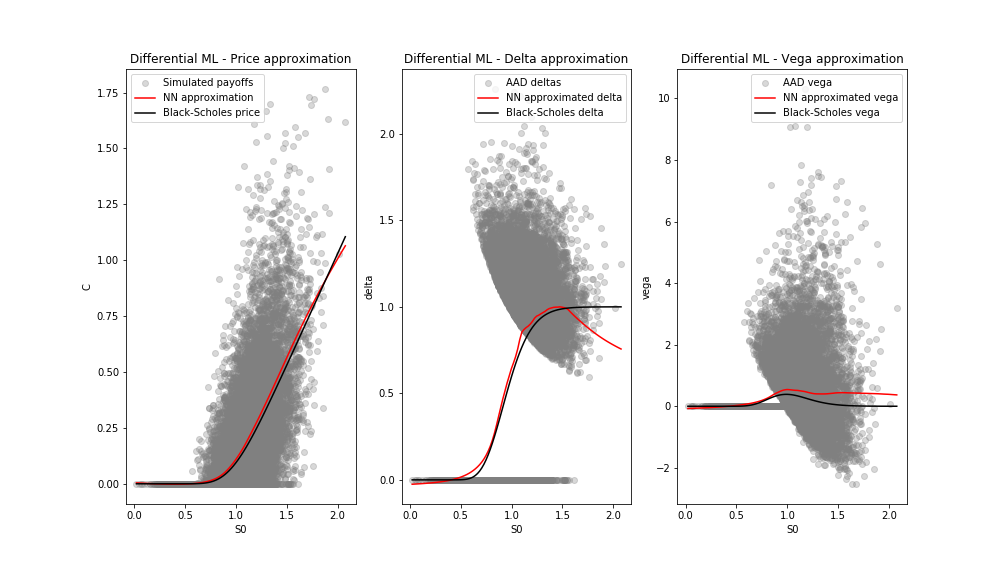
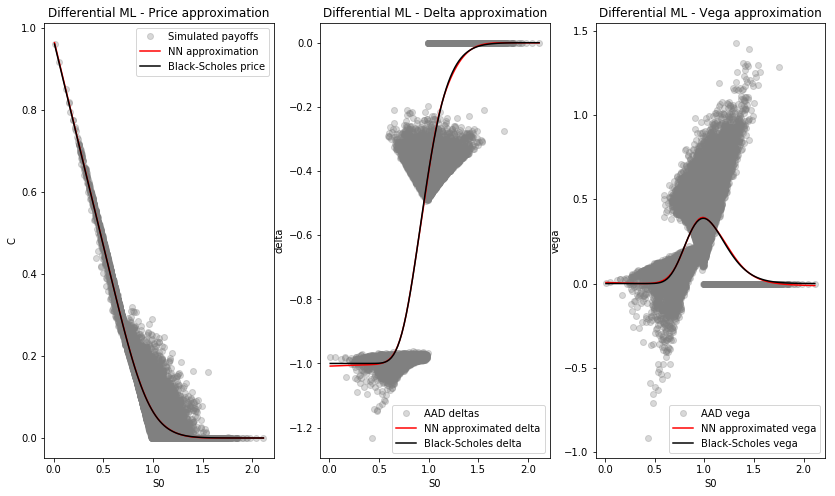
Added LR scheduler to NN

diff --git a/Main.py b/Main.py
@@ -11,15 +11,15 @@ import torch
 import matplotlib.pyplot as plt
 import numpy as np
 #%%
-nSamples = 12500
+nSamples = 8192*2
 alpha = 1/(1+nSamples)
 beta = 1-alpha
 dt = 10
 T = 1.
-sigma = 0.2 #+ np.random.normal(0, 0.025, nSamples)
+sigma = 0.2 + np.random.normal(0, 0.025, nSamples)
 K = 1.
 d = 0.25
-r = 0.03 + np.random.normal(0, 0.0055, nSamples)
+r = 0.03 #+ np.random.normal(0, 0.0055, nSamples)
 
 #Generate data
 S0 = K + d * np.random.normal(0, 1, nSamples)
@@ -27,41 +27,40 @@ S0[S0 < 0] = 0.01
 #S0 = np.linspace(0.01,3.5,nSamples)
 ST = np.empty(S0.shape[0])
 C = np.empty(S0.shape[0])
-X = np.c_[S0, r]
+X = np.c_[S0, sigma]
 greeks = np.empty((S0.shape[0], 2))
 
 product = Option(K, 'call')
 time = td.TimeDiscretization(0, dt, T/dt)
 driver = bm.BrownianMotion(time, nSamples, 1)
 driver.generateBM()
+model = bsm.BlackScholesModel(sigma[0], r)
+model.setDerivParameters(['vol']) #'riskFreeRate'
+process = ep.EulerSchemeFromProcessModel(model,driver,time, product)
 
 for i in range(0, S0.shape[0]):
-    model = bsm.BlackScholesModel(sigma, r[i])
-    model.setDerivParameters(['riskFreeRate']) #'vol'
-    process = ep.EulerSchemeFromProcessModel(model,driver,time, product)
+    process.model.vol = sigma[i]
     S0_tensor = torch.tensor(S0[i])
-    S = process.calculateProcess(S0_tensor, i)
+    S, C[i], greeks[i, :] = process.calculateDerivs(S0_tensor, i, anti=True)
     ST[i] = S[-1]
-    greeks[i, :] = process.calculateDerivs(S0_tensor, i)
-    C[i] = product.payoff(torch.tensor(S), torch.tensor(r[i]), torch.tensor(T))
 
 #Define and train net
 net = nn.NeuralNet(2, 1, 4, 20, differential=True)
 net.generateData(X, C, greeks)
-net.train(n_epochs = 100, batch_size=257, alpha=alpha, beta=beta, lr=0.001)
+net.train(n_epochs = 100, batch_size=256, alpha=alpha, beta=beta, lr=0.001)
 
 #predict
 S0_test = np.linspace(S0.min(), S0.max(), 100)
-#sigma_test = np.linspace(0.2, 0.2, 100)
-r_test = np.linspace(0.03, 0.03, 100)
-X_test = np.c_[S0_test, r_test]
+sigma_test = np.linspace(0.2, 0.2, 100)
+#r_test = np.linspace(0.03, 0.03, 100)
+X_test = np.c_[S0_test, sigma_test]
 y_test, dydx_test = net.predict(X_test, True)
 
 #compare with true Black-Scholes price
-truePrice = bsm.C(S0_test, K, T, sigma, r_test)
-trueDelta = bsm.delta(S0_test, K, T, sigma, r_test, 'Call')
-#trueVega = bsm.vega(S0_test, K, T, sigma, r_test, 'Call')
-trueVega = bsm.rho(S0_test, K, T, sigma, r_test, 'Call')
+truePrice = bsm.C(S0_test, K, T, sigma_test, r)
+trueDelta = bsm.delta(S0_test, K, T, sigma_test, r, 'Call')
+trueVega = bsm.vega(S0_test, K, T, sigma_test, r, 'Call')
+#trueVega = bsm.rho(S0_test, K, T, sigma_test, r, 'Call')
 
 plt.figure(figsize=[14,8])
 plt.subplot(1, 3, 1)
@@ -83,19 +82,19 @@ plt.legend()
 plt.title('Differential ML - Delta approximation')
 
 plt.subplot(1, 3, 3)
-plt.plot(S0, greeks[:,1], 'o', color='grey', label='AAD rho', alpha = 0.3)
-plt.plot(S0_test, dydx_test[:,1], color='red', label='NN approximated rho')
-plt.plot(S0_test, trueVega, color='black', label='Black-Scholes rho')
-#plt.ylim([-1,1])
+plt.plot(S0, greeks[:,1], 'o', color='grey', label='AAD vega', alpha = 0.3)
+plt.plot(S0_test, dydx_test[:,1], color='red', label='NN approximated vega')
+plt.plot(S0_test, trueVega, color='black', label='Black-Scholes vega')
+plt.ylim([-0.5,1.5])
 plt.xlabel('S0')
-plt.ylabel('Rho')
+plt.ylabel('Vega')
 plt.legend()
-plt.title('Differential ML - Rho approximation')
+plt.title('Differential ML - Vega approximation')
 plt.show()
 #plt.savefig('./Plots/DiffNNTest3.png')
 
 #%%
-plt.plot(net.loss.detach().numpy())
+plt.plot(net.loss)
 #%%
 #____________________________________________________________________________
 ###   Longstaff - Schwartz example   ###

diff --git a/NeuralNetwork/Training.py b/NeuralNetwork/Training.py
@@ -7,6 +7,7 @@ import numpy as np
 def trainingLoop(X, y, n_epochs, batch_size, NeuralNet, lr=0.001):
     optimizer = optim.Adam(NeuralNet.parameters(), lr=lr)
     lossTensor = np.empty(n_epochs)
+    scheduler = torch.optim.lr_scheduler.ReduceLROnPlateau(optimizer)
 
     for epoch in range(n_epochs):
 
@@ -20,6 +21,7 @@ def trainingLoop(X, y, n_epochs, batch_size, NeuralNet, lr=0.001):
             loss = F.mse_loss(output, y_batch)
             loss.backward()
             optimizer.step()
+        scheduler.step(loss)
         print(loss)
         lossTensor[epoch] = loss.detach().numpy()
     return lossTensor
@@ -41,6 +43,7 @@ def diffReg(labels, predictions, derivLabels, derivPredictions, alpha, beta, lam
 def diffTrainingLoop(X, y_values, y_derivs, n_epochs, batch_size, NeuralNet, alpha, beta, lambda_j=1, lr=0.001):
     optimizer = optim.Adam(NeuralNet.parameters(), lr=lr)
     lossTensor = np.empty(n_epochs)
+    scheduler = torch.optim.lr_scheduler.ReduceLROnPlateau(optimizer)
 
     for epoch in range(n_epochs):
 
@@ -56,6 +59,7 @@ def diffTrainingLoop(X, y_values, y_derivs, n_epochs, batch_size, NeuralNet, alp
             loss = diffReg(y_values_batch, output, y_derivs_batch, predDerivs[0], alpha, beta, lambda_j)
             loss.backward()
             optimizer.step()
+        scheduler.step(loss)
         print(loss)
         lossTensor[epoch] = loss.detach().numpy()
 
